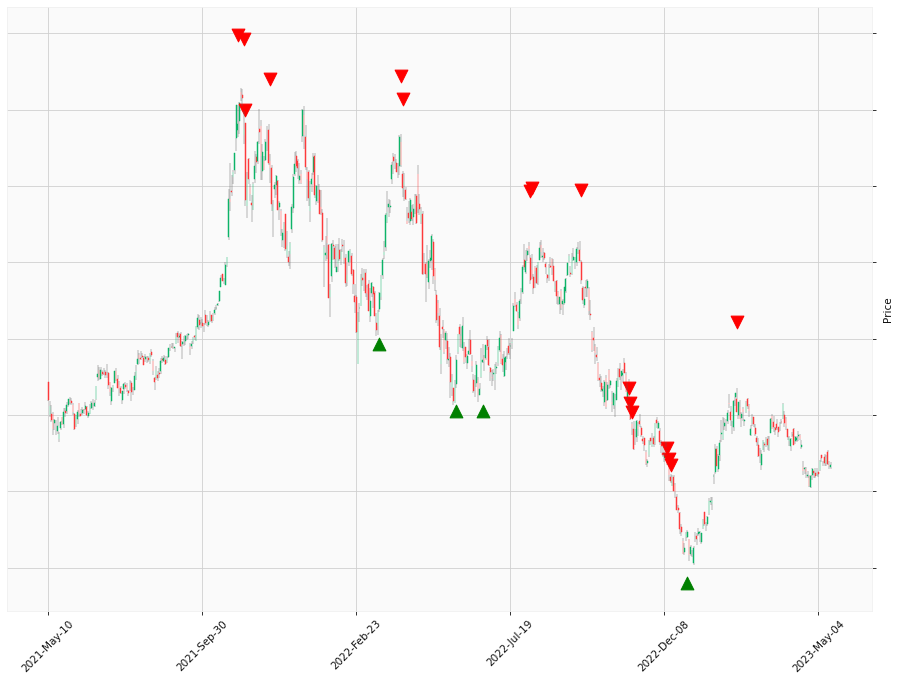
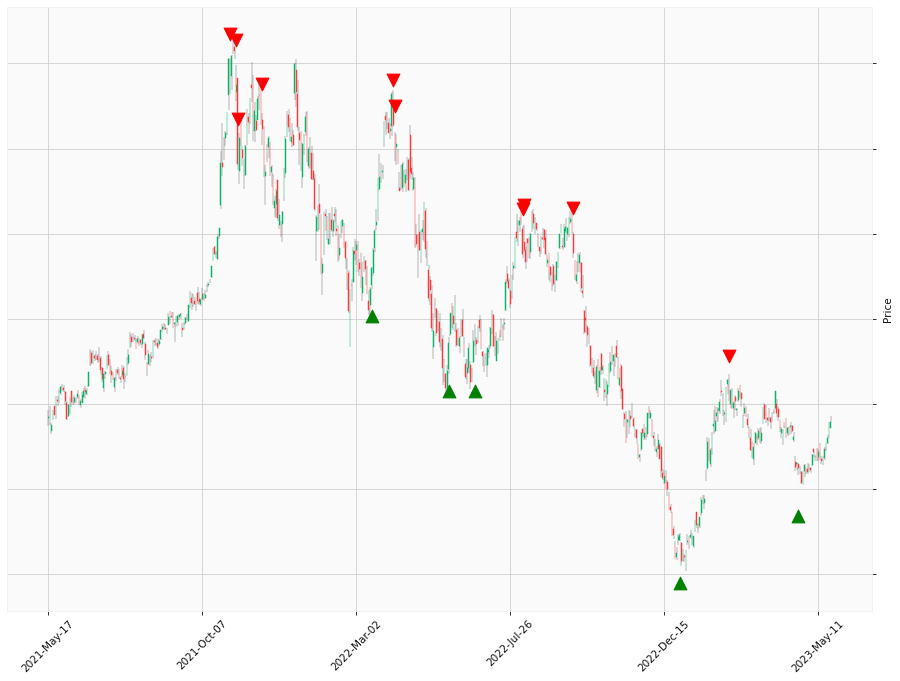
See https://github.com/HappyLabz/HappyLabz_v1/commit/47b32b2be19d9b34145fe79a0733faeb6e5394c2 from refs/heads/main

diff --git a/TSLA.md b/TSLA.md
@@ -112,9 +112,9 @@
         <td>10</td>
         <td>Long</td>
         <td>Apr 24 2023 Close</td>
-        <td>16.63 %</td>
-        <td>215.99 %</td>
-        <td>504.81 %</td>
+        <td>16.19 %</td>
+        <td>215.55 %</td>
+        <td>502.54 %</td>
     </tr>
     
 </table>
@@ -130,23 +130,23 @@
     <tbody>
         <tr>
             <td>TSLA (Buy and Hold)</td>
-            <td>2022-04-05 Close <b>-</b> 2023-05-23 Close</td>
-            <td>-47.88 %</td>
+            <td>2022-04-05 Close <b>-</b> 2023-05-22 Close</td>
+            <td>-48.08 %</td>
         </tr>
         <tr>
             <td>TSLA (HLT Cumulative % Gain)</td>
-            <td>2022-04-05 Close <b>-</b> 2023-05-23 Close</td>
-            <td>215.99 %</td>
+            <td>2022-04-05 Close <b>-</b> 2023-05-22 Close</td>
+            <td>215.55 %</td>
         </tr>
         <tr>
             <td>TSLA (HLT Reinvested % Gain)</td>
-            <td>2022-04-05 Close <b>-</b> 2023-05-23 Close</td>
-            <td>504.81 %</td>
+            <td>2022-04-05 Close <b>-</b> 2023-05-22 Close</td>
+            <td>502.54 %</td>
         </tr>
         <tr>
             <td>S&P 500 (Buy and Hold)</td>
-            <td>2022-04-05 Close <b>-</b> 2023-05-23 Close</td>
-            <td>-7.39 %</td>
+            <td>2022-04-05 Close <b>-</b> 2023-05-22 Close</td>
+            <td>-7.15 %</td>
         </tr>
     </tbody>
 </table>

diff --git a/index.md b/index.md
@@ -103,7 +103,7 @@
         <h2 id="tsla"><a href="{% link TSLA.md %}">TSLA <span style="color:#0369a1;">&bigstar;</span></a></h2>
         <ul>
             <li>LAST: <b><span style="color: #167816;">Long</span></b> Apr 24 2023 15:00 PST</li>
-            <li>DELTA: <b><span style="color: #167816;">27.03 (16.63%)</span></b> as of close<br>May 23 2023</li>
+            <li>DELTA: <b><span style="color: #167816;">26.32 (16.19%)</span></b> as of close<br>May 23 2023</li>
         </ul>
     </div>
     <div class="box gray" onclick="location.href='{% link navigation/blocked.md %}';">
